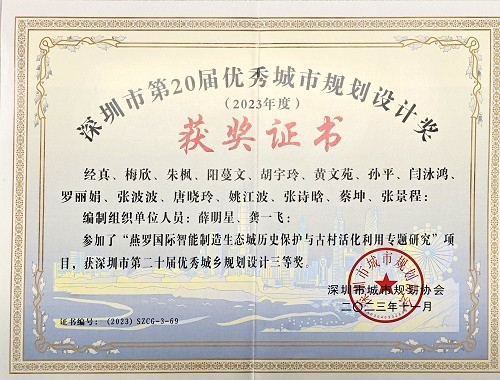
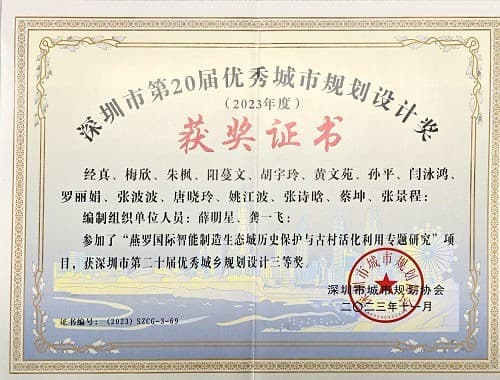
20260519压缩图片

diff --git a/index.html b/index.html
@@ -153,10 +153,6 @@
                   <li><b style="font-size: 20px;">学历： </b>大学本科</li>
                   <li><b style="font-size: 20px;">毕业院校： </b>长安大学</li>
                   <li><b style="font-size: 20px;">专业： </b>城市规划</li>
-                  <!-- <div class="col s12 m12">
-                    <img src="/assets/img/about/毕业证.jpg" alt="毕业证" style="width: 100%;">
-                    <img src="/assets/img/about/学位证.jpg" alt="学位证" style="width: 100%;">
-                  </div> -->
                 </ul>
               </div>
             </div>
@@ -203,7 +199,7 @@
                     主攻区域环评改革、智慧平台研发、全过程咨询、低空经济研究等新型业务，兼顾城市规划、工程咨询等传统业务。
                   </li>
                 </ul>
-                <img class="right work-exp-img" src="/assets/img/about/职务聘任_主任工程师.png" alt="主任工程师">
+                <img class="right work-exp-img" src="/assets/img/about/职务聘任_主任工程师.jpg" alt="主任工程师">
               </div>
             </div>
           </div>
@@ -334,7 +330,7 @@
                   <div class="card medium card-normal hoverable-card">
                     <!-- 封面图 -->
                     <div class="card-image waves-effect waves-block waves-light">
-                      <img alt="cover" src="/assets/img/projects/个人复现_区域环评选址_cover.png" />
+                      <img alt="cover" src="/assets/img/projects/个人复现_区域环评选址_cover.jpg" />
                     </div>
                     <!-- 标题 -->
                     <div class="card-content">
@@ -380,19 +376,19 @@
                     </div>
                     <div class="col s12 m12 l12">
                       <span class="img-caption">一、需求逻辑</span>
-                      <img alt="" src="/assets/img/projects/个人复现_区域环评选址_page01.png" />
+                      <img alt="" src="/assets/img/projects/个人复现_区域环评选址_page01.jpg" />
                     </div>
                     <div class="col s12 m12 l12">
                       <span class="img-caption">二、技术架构</span>
-                      <img alt="" src="/assets/img/projects/个人复现_区域环评选址_page02.png" />
+                      <img alt="" src="/assets/img/projects/个人复现_区域环评选址_page02.jpg" />
                     </div>
                     <div class="col s12 m12 l12">
                       <span class="img-caption">三、技术实现</span>
-                      <img alt="" src="/assets/img/projects/个人复现_区域环评选址_page03.png" />
+                      <img alt="" src="/assets/img/projects/个人复现_区域环评选址_page03.jpg" />
                     </div>
                     <div class="col s12 m12 l12">
                       <span class="img-caption">四、效果展示</span>
-                      <img alt="" src="/assets/img/projects/个人复现_区域环评选址_page04.png" />
+                      <img alt="" src="/assets/img/projects/个人复现_区域环评选址_page04.jpg" />
                     </div>
                   </div>
                 </div>
@@ -402,7 +398,7 @@
                   <!-- 正常卡片 -->
                   <div class="card medium card-normal hoverable-card">
                     <div class="card-image waves-effect waves-block waves-light">
-                      <img alt="cover" src="/assets/img/projects/个人复现_龙华公共设施_cover.png" />
+                      <img alt="cover" src="/assets/img/projects/个人复现_龙华公共设施_cover.jpg" />
                     </div>
                     <div class="card-content">
                       <div class="project-title teal-text">龙华区公共设施规划管理系统的技术转化复现</div>
@@ -445,19 +441,19 @@
                     </div>
                     <div class="col s12 m12 l12">
                       <span class="img-caption">一、需求逻辑</span>
-                      <img alt="" src="/assets/img/projects/个人复现_龙华公共设施_page01.png" />
+                      <img alt="" src="/assets/img/projects/个人复现_龙华公共设施_page01.jpg" />
                     </div>
                     <div class="col s12 m12 l12">
                       <span class="img-caption">二、技术架构</span>
-                      <img alt="" src="/assets/img/projects/个人复现_龙华公共设施_page02.png" />
+                      <img alt="" src="/assets/img/projects/个人复现_龙华公共设施_page02.jpg" />
                     </div>
                     <div class="col s12 m12 l12">
                       <span class="img-caption">三、技术实现</span>
-                      <img alt="" src="/assets/img/projects/个人复现_龙华公共设施_page03.png" />
+                      <img alt="" src="/assets/img/projects/个人复现_龙华公共设施_page03.jpg" />
                     </div>
                     <div class="col s12 m12 l12">
                       <span class="img-caption">四、效果展示</span>
-                      <img alt="" src="/assets/img/projects/个人复现_龙华公共设施_page04.png" />
+                      <img alt="" src="/assets/img/projects/个人复现_龙华公共设施_page04.jpg" />
                     </div>
                   </div>
                 </div>
@@ -479,7 +475,7 @@
                   <!-- 正常卡片 -->
                   <div class="card medium card-normal hoverable-card">
                     <div class="card-image waves-effect waves-block waves-light">
-                      <img alt="cover" src="/assets/img/projects/跨界合作_区域环评选址_cover.png" />
+                      <img alt="cover" src="/assets/img/projects/跨界合作_区域环评选址_cover.jpg" />
                     </div>
                     <div class="card-content">
                       <div class="project-title teal-text">
@@ -513,15 +509,15 @@
                     </div>
                     <div class="col s12 m12 l12">
                       <span class="img-caption">一、项目概况</span>
-                      <img alt="" src="/assets/img/projects/跨界合作_区域环评选址_page01.png" />
+                      <img alt="" src="/assets/img/projects/跨界合作_区域环评选址_page01.jpg" />
                     </div>
                     <div class="col s12 m12 l12">
                       <span class="img-caption">二、技术分析</span>
-                      <img alt="" src="/assets/img/projects/跨界合作_区域环评选址_page02.png" />
+                      <img alt="" src="/assets/img/projects/跨界合作_区域环评选址_page02.jpg" />
                     </div>
                     <div class="col s12 m12 l12">
                       <span class="img-caption">三、功能展示</span>
-                      <img alt="" src="/assets/img/projects/跨界合作_区域环评选址_page03.png" />
+                      <img alt="" src="/assets/img/projects/跨界合作_区域环评选址_page03.jpg" />
                     </div>
                   </div>
                 </div>
@@ -532,7 +528,7 @@
                   <!-- 正常卡片 -->
                   <div class="card medium card-normal hoverable-card">
                     <div class="card-image waves-effect waves-block waves-light">
-                      <img alt="cover" src="/assets/img/projects/跨界合作_宝安数字底座_cover.png" />
+                      <img alt="cover" src="/assets/img/projects/跨界合作_宝安数字底座_cover.jpg" />
                     </div>
                     <div class="card-content">
                       <div class="project-title teal-text">
@@ -566,15 +562,15 @@
                     </div>
                     <div class="col s12 m12 l12">
                       <span class="img-caption">一、项目概况</span>
-                      <img alt="" src="/assets/img/projects/跨界合作_宝安数字底座_page01.png" />
+                      <img alt="" src="/assets/img/projects/跨界合作_宝安数字底座_page01.jpg" />
                     </div>
                     <div class="col s12 m12 l12">
                       <span class="img-caption">二、技术分析</span>
-                      <img alt="" src="/assets/img/projects/跨界合作_宝安数字底座_page02.png" />
+                      <img alt="" src="/assets/img/projects/跨界合作_宝安数字底座_page02.jpg" />
                     </div>
                     <div class="col s12 m12 l12">
                       <span class="img-caption">三、功能展示</span>
-                      <img alt="" src="/assets/img/projects/跨界合作_宝安数字底座_page03.png" />
+                      <img alt="" src="/assets/img/projects/跨界合作_宝安数字底座_page03.jpg" />
                     </div>
                   </div>
                 </div>
@@ -585,7 +581,7 @@
                   <!-- 正常卡片 -->
                   <div class="card medium card-normal hoverable-card">
                     <div class="card-image waves-effect waves-block waves-light">
-                      <img alt="cover" src="/assets/img/projects/跨界合作_宝安产业大脑_cover.png" />
+                      <img alt="cover" src="/assets/img/projects/跨界合作_宝安产业大脑_cover.jpg" />
                     </div>
                     <div class="card-content">
                       <div class="project-title teal-text">
@@ -619,15 +615,15 @@
                     </div>
                     <div class="col s12 m12 l12">
                       <span class="img-caption">一、项目概况</span>
-                      <img alt="" src="/assets/img/projects/跨界合作_宝安产业大脑_page01.png" />
+                      <img alt="" src="/assets/img/projects/跨界合作_宝安产业大脑_page01.jpg" />
                     </div>
                     <div class="col s12 m12 l12">
                       <span class="img-caption">二、技术分析</span>
-                      <img alt="" src="/assets/img/projects/跨界合作_宝安产业大脑_page02.png" />
+                      <img alt="" src="/assets/img/projects/跨界合作_宝安产业大脑_page02.jpg" />
                     </div>
                     <div class="col s12 m12 l12">
                       <span class="img-caption">三、功能展示</span>
-                      <img alt="" src="/assets/img/projects/跨界合作_宝安产业大脑_page03.png" />
+                      <img alt="" src="/assets/img/projects/跨界合作_宝安产业大脑_page03.jpg" />
                     </div>
                   </div>
                 </div>
@@ -649,7 +645,7 @@
                   <!-- 正常卡片 -->
                   <div class="card medium card-normal hoverable-card">
                     <div class="card-image waves-effect waves-block waves-light">
-                      <img alt="cover" src="/assets/img/projects/传统规划_沙井区域环评_cover.png" />
+                      <img alt="cover" src="/assets/img/projects/传统规划_沙井区域环评_cover.jpg" />
                     </div>
                     <div class="card-content">
                       <div class="project-title teal-text">
@@ -683,7 +679,7 @@
                     </div>
                     <div class="col s12 m12 l12">
                       <span class="img-caption">项目概况</span>
-                      <img alt="" src="/assets/img/projects/传统规划_沙井区域环评_page01.png" />
+                      <img alt="" src="/assets/img/projects/传统规划_沙井区域环评_page01.jpg" />
                     </div>
 
                   </div>
@@ -695,7 +691,7 @@
                   <!-- 正常卡片 -->
                   <div class="card medium card-normal hoverable-card">
                     <div class="card-image waves-effect waves-block waves-light">
-                      <img alt="cover" src="/assets/img/projects/传统规划_龙华公共设施_cover.png" />
+                      <img alt="cover" src="/assets/img/projects/传统规划_龙华公共设施_cover.jpg" />
                     </div>
                     <div class="card-content">
                       <div class="project-title teal-text">
@@ -729,7 +725,7 @@
                     </div>
                     <div class="col s12 m12 l12">
                       <span class="img-caption">项目概况</span>
-                      <img alt="" src="/assets/img/projects/传统规划_龙华公共设施_page01.png" />
+                      <img alt="" src="/assets/img/projects/传统规划_龙华公共设施_page01.jpg" />
                     </div>
 
                   </div>
@@ -741,7 +737,7 @@
                   <!-- 正常卡片 -->
                   <div class="card medium card-normal hoverable-card">
                     <div class="card-image waves-effect waves-block waves-light">
-                      <img alt="cover" src="/assets/img/projects/传统规划_茅洲河概念规划_cover.png" />
+                      <img alt="cover" src="/assets/img/projects/传统规划_茅洲河概念规划_cover.jpg" />
                     </div>
                     <div class="card-content">
                       <div class="project-title teal-text">
@@ -775,7 +771,7 @@
                     </div>
                     <div class="col s12 m12 l12">
                       <span class="img-caption">项目概况</span>
-                      <img alt="" src="/assets/img/projects/传统规划_茅洲河概念规划_page01.png" />
+                      <img alt="" src="/assets/img/projects/传统规划_茅洲河概念规划_page01.jpg" />
                     </div>
 
                   </div>
@@ -787,7 +783,7 @@
                   <!-- 正常卡片 -->
                   <div class="card medium card-normal hoverable-card">
                     <div class="card-image waves-effect waves-block waves-light">
-                      <img alt="cover" src="/assets/img/projects/传统规划_宝安碧道规划_cover.png" />
+                      <img alt="cover" src="/assets/img/projects/传统规划_宝安碧道规划_cover.jpg" />
                     </div>
                     <div class="card-content">
                       <div class="project-title teal-text">
@@ -821,7 +817,7 @@
                     </div>
                     <div class="col s12 m12 l12">
                       <span class="img-caption">项目概况</span>
-                      <img alt="" src="/assets/img/projects/传统规划_宝安碧道规划_page01.png" />
+                      <img alt="" src="/assets/img/projects/传统规划_宝安碧道规划_page01.jpg" />
                     </div>
 
                   </div>
@@ -833,7 +829,7 @@
                   <!-- 正常卡片 -->
                   <div class="card medium card-normal hoverable-card">
                     <div class="card-image waves-effect waves-block waves-light">
-                      <img alt="cover" src="/assets/img/projects/传统规划_新桥东更新规划_cover.png" />
+                      <img alt="cover" src="/assets/img/projects/传统规划_新桥东更新规划_cover.jpg" />
                     </div>
                     <div class="card-content">
                       <div class="project-title teal-text">
@@ -867,7 +863,7 @@
                     </div>
                     <div class="col s12 m12 l12">
                       <span class="img-caption">项目概况</span>
-                      <img alt="" src="/assets/img/projects/传统规划_新桥东更新规划_page01.png" />
+                      <img alt="" src="/assets/img/projects/传统规划_新桥东更新规划_page01.jpg" />
                     </div>
 
                   </div>
